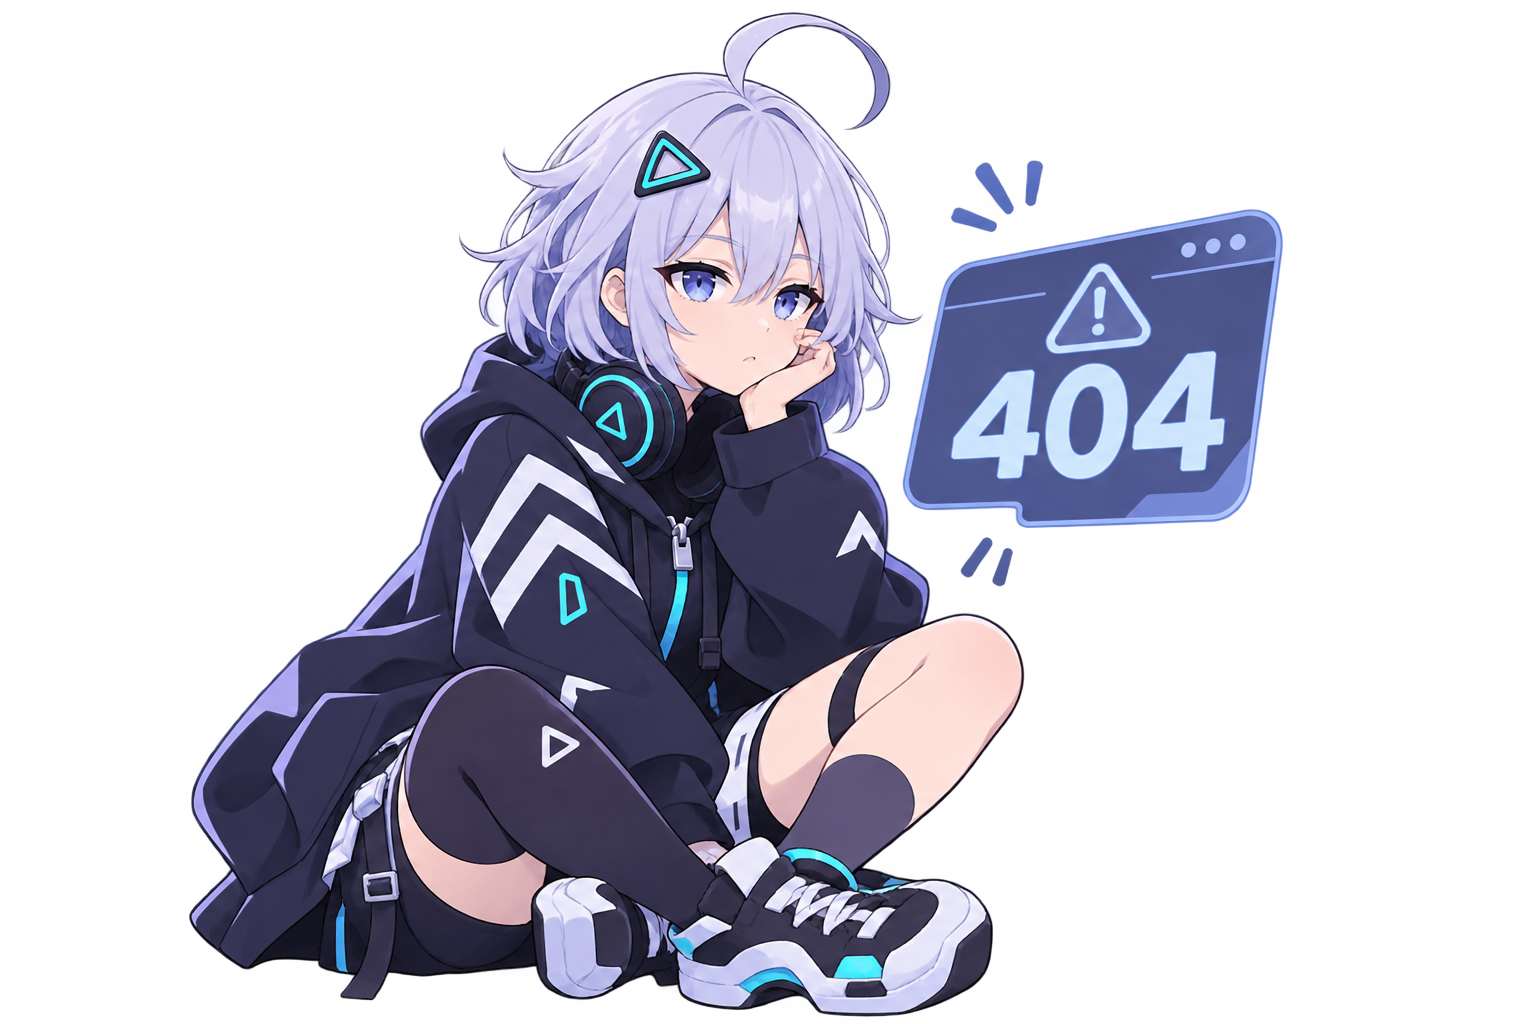
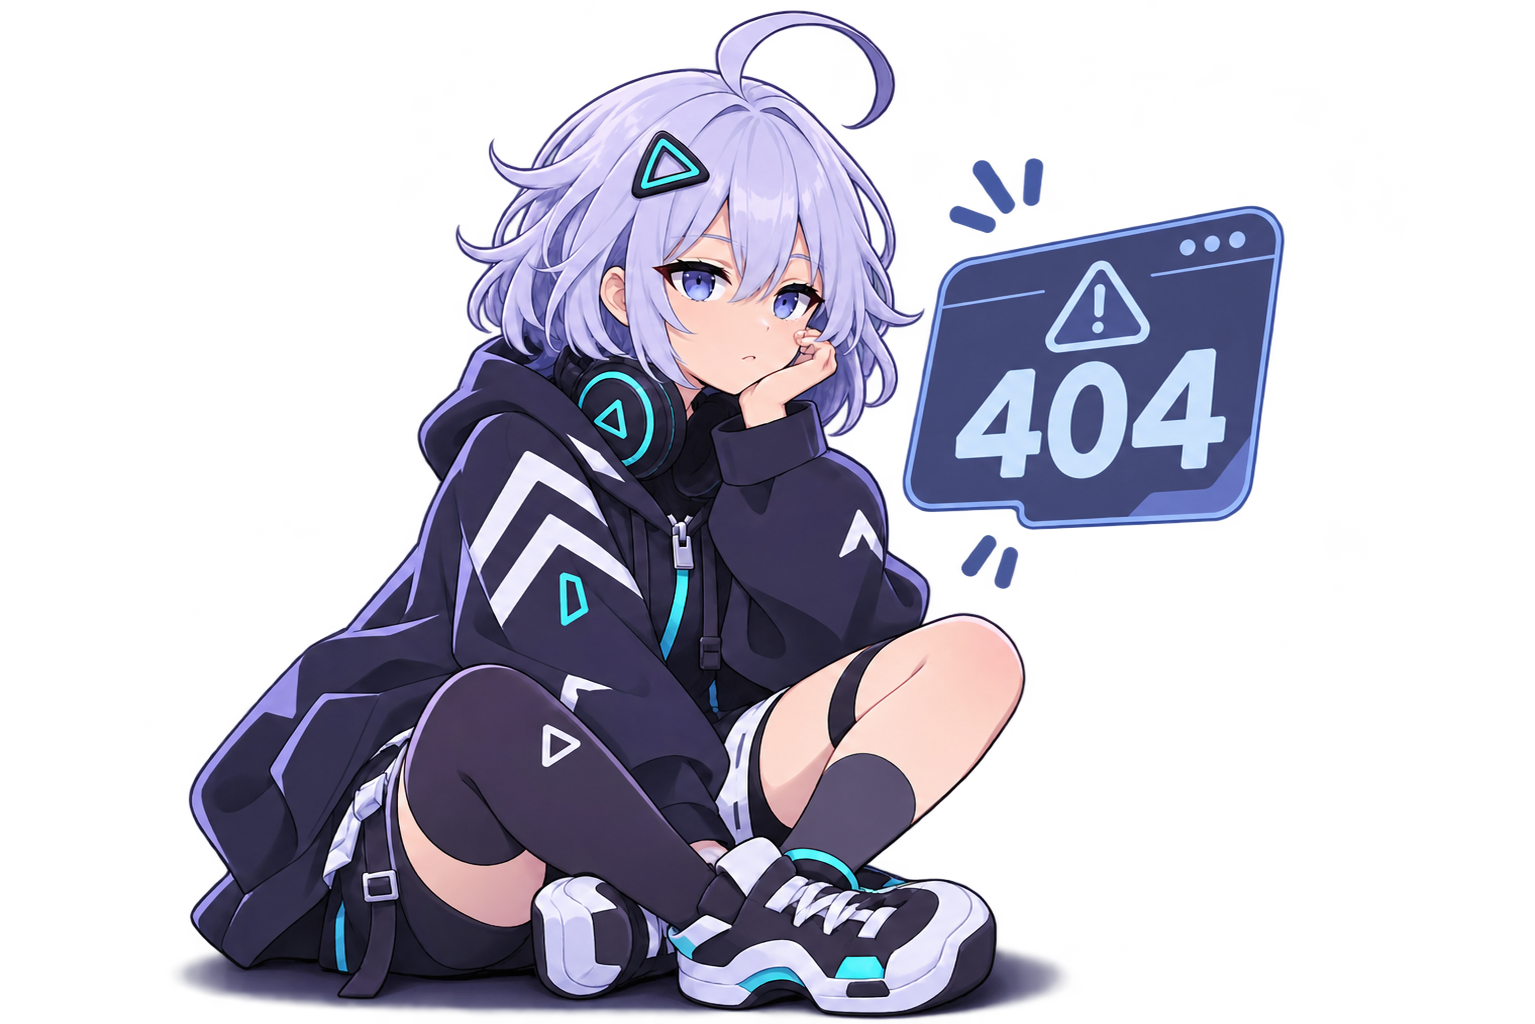
Use the updated Hypri art with its own floor shadow
404-not-found.png and theme-not-found.png now carry their own shadow, so the CSS shadow is gone. The keybinding filter's crop follows the panel's new slanted edge, and runs 80px past her shoe so the built-in shadow fades out instead of stopping at the edge.

diff --git a/src/css/custom.css b/src/css/custom.css
@@ -506,15 +506,10 @@ div[class*="codeBlockTitle"] { background: var(--color-code-2); color: var(--col
 
 .hs-empty { display: grid; grid-template-columns: minmax(0, 3fr) minmax(0, 7fr); gap: var(--space-xl); align-items: center; padding-block: var(--space-lg); }
 .hs-empty--empty-theme { grid-template-columns: minmax(0, 6fr) minmax(0, 5fr); }
-/* The frames hug the picture, so the floor shadow under Hypri lines up with her. --floor-l and --floor-w are where her body meets the bottom edge, measured from each picture. */
-.hs-empty__art, .hs-lost__art { position: relative; isolation: isolate; width: fit-content; max-width: 100%; margin: 0; }
-.hs-empty__art img, .hs-lost__art img { position: relative; z-index: 1; display: block; width: auto; max-width: 100%; height: auto; }
+/* The frames hug the picture. The art carries its own floor shadow. */
+.hs-empty__art, .hs-lost__art { width: fit-content; max-width: 100%; margin: 0; }
+.hs-empty__art img, .hs-lost__art img { display: block; width: auto; max-width: 100%; height: auto; }
 .hs-empty__art img { max-height: 420px; }
-.hs-empty__art::after, .hs-lost__art::after { content: ""; position: absolute; z-index: 0; bottom: 0; left: var(--floor-l); width: var(--floor-w); aspect-ratio: 9 / 1; transform: translateY(45%); background: radial-gradient(closest-side, color-mix(in oklab, var(--color-shadow) 55%, transparent), transparent); pointer-events: none; }
-html[data-theme="dark"] .hs-empty__art::after, html[data-theme="dark"] .hs-lost__art::after { background: radial-gradient(closest-side, color-mix(in oklab, var(--color-shadow) 92%, transparent), transparent); aspect-ratio: 7 / 1; }
-.hs-lost__art { --floor-l: 9%; --floor-w: 59%; }
-.hs-empty--empty-theme .hs-empty__art { --floor-l: 2%; --floor-w: 52%; }
-.hs-empty--empty .hs-empty__art { --floor-l: 6%; --floor-w: 92%; }
 .hs-empty__text p { margin: 0 0 var(--space-xs); color: var(--color-muted); }
 .hs-empty__text p:first-child { font: 500 var(--text-title)/1.2 var(--font-display); letter-spacing: -0.015em; color: var(--color-ink); margin-bottom: var(--space-sm); }
 

diff --git a/src/components/Hypri.tsx b/src/components/Hypri.tsx
@@ -4,7 +4,7 @@ import useBaseUrl from '@docusaurus/useBaseUrl';
 // Hypri, the hyprsimple mascot, beside a message for a list that came up empty.
 // `empty` is Hypri on her own. `empty-theme` adds the "No theme matches" panel drawn into the picture.
 export function EmptyState({ children, art = 'empty' }: { children: ReactNode; art?: 'empty' | 'empty-theme' }) {
-  const size = art === 'empty' ? { width: 520, height: 666 } : { width: 1024, height: 683 };
+  const size = art === 'empty' ? { width: 572, height: 666 } : { width: 1024, height: 683 };
   return (
     <div className={`hs-empty hs-empty--${art}`}>
       <div className="hs-empty__art" data-slot={`hypri-${art}`} data-kind="product">
